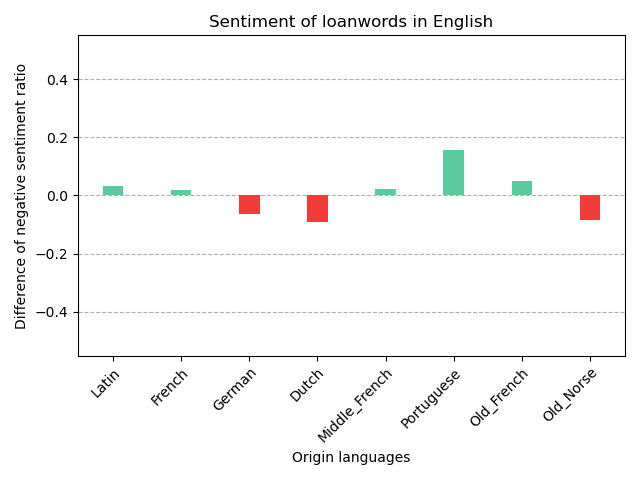
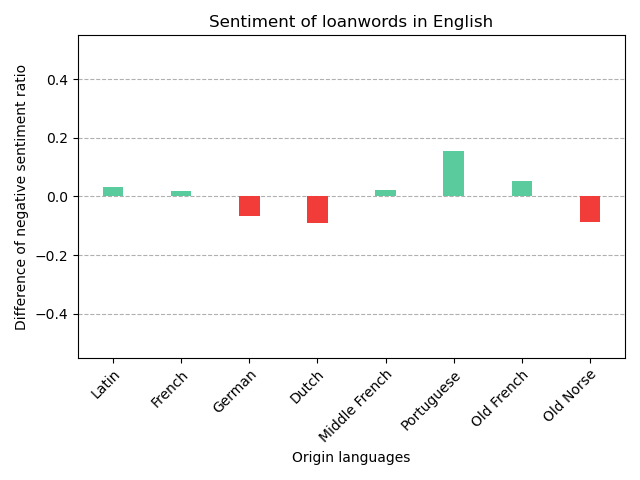
Add prediction checker

diff --git a/functions.py b/functions.py
@@ -85,6 +85,7 @@ def plot_lang(rec_lang, ori_langs):
     plt.ylim([-0.55, 0.55])
     plt.title('Sentiment of loanwords in ' + rec_lang.capitalize())
     ax = fig.add_subplot(111)
+    ori_langs = [lang.replace('_', ' ') for lang in ori_langs]
     ax.bar(ori_langs, diff, width=0.3, color = colors)
     ax.set_axisbelow(True)
     plt.setp(ax.xaxis.get_majorticklabels(), rotation=45, ha="right", rotation_mode="anchor")
@@ -101,4 +102,94 @@ def plot_langs():
             origin_languages = [lang.replace(' ', '_') for lang in origin_languages]
             plot_lang(receiving_language, origin_languages)
 
-plot_langs()
+
+predictions_dict = {
+    'French': 
+    {
+        'English' : '+', # After the world wars they have been friendly since they fought on the same side
+        'German' : '-', # Has been at war with German nations long before even the world wars
+    },
+    'Spanish': 
+    {
+        'Arabic' : '-', # Spanish-Moroccan relations have been bad for a long while
+        'Andalusian Arabic' : '-', # The Reconquista
+    },
+    'Portuguese': 
+    {
+        'Arabic' : '-', # Same as Spain
+        'English' : '+', # Oldest alliance up to this day
+    },
+    'Italian': 
+    {
+        'Arabic' : '-', # Sicilian Arabs were enslaved and kicked off the island in the past...
+        'Old French' : '-', # Italians didn't appreciate the Normans conquering their lands
+    },
+    'Romanian': 
+    {
+        'French' : '+', # Many Romanian nobles studied in the post-Napoleonic France and returned to Romania as Francophiles
+        'Hungarian' : '-', # Romanians were treated as second class citizens in Transylvania by the Hungarians
+        'Old Church Slavonic' : '+', # It is believed that Romanians were friendly with the nearby Slavic tribes
+        'Ottoman Turkish' : '-', # Multiple wars with the Ottomans
+    },
+    'English': 
+    {
+        'Latin' : '+', # The English looked up to the ancient Romans
+        'French' : '+', # After the world wards the countries have been friendly since they fought together
+        'German' : '-', # Fought in the world wars and before
+        'Dutch' : '-', # Had multiple wars due to trading competition
+        'Middle French' : '-', # Had multiple wars since the English had claims over the crown of France
+        'Portuguese' : '+', # Oldest alliance to this day
+        'Old French' : '+', # Old French was spoken by the nobility
+        'Old Norse' : '-', # Fought multiple wars with the Norse vikings
+    },
+    'German': 
+    {
+        'French' : '-', # Fought multiple wars even before the world wars
+        'English' : '-', # Fought in the world wars
+    },
+    'Dutch': 
+    {
+        'French' : '-', # France tried and conquered the Netherlands multiple times
+        'English' : '-', # Had multiple wars over trade
+    },
+    'Finnish': 
+    {
+        'Russian' : '-', # The Winter War
+        'Swedish' : '+', # The two countries are known for having very good relations
+    },
+    'Polish': 
+    {
+        'Latin' : '+', # It was used a lot within the upper class of the Polish-Lithuanian Commonwealth
+        'German' : '-', # Was invaded by Germany multiple times
+    },
+}
+
+def test_predictions():
+    predictions = ''
+    results = ''
+    with open("languages.csv", encoding="utf-8") as lw_file:
+        rows = lw_file.readlines()
+        for row in rows:
+            row = row.replace('\n', '').split(',')
+            receiving_language = row[0]
+            origin_languages = row[1:]
+            for lang in origin_languages:
+                predictions += (predictions_dict[receiving_language][lang])
+            for lang in origin_languages:
+                result = 0.5561128526645768 - print_sent_pct(receiving_language.capitalize(), lang.replace(' ', '_'))
+                if result > 0.0:
+                    results += '+'
+                else:
+                    results += '-'
+
+    print(predictions)
+    print(results)
+    correct = 0
+    for i in range(len(predictions)):
+        if predictions[i] == results[i]:
+            correct += 1
+    print(correct)
+    print(correct / len(predictions))
+
+#plot_langs()
+test_predictions()
